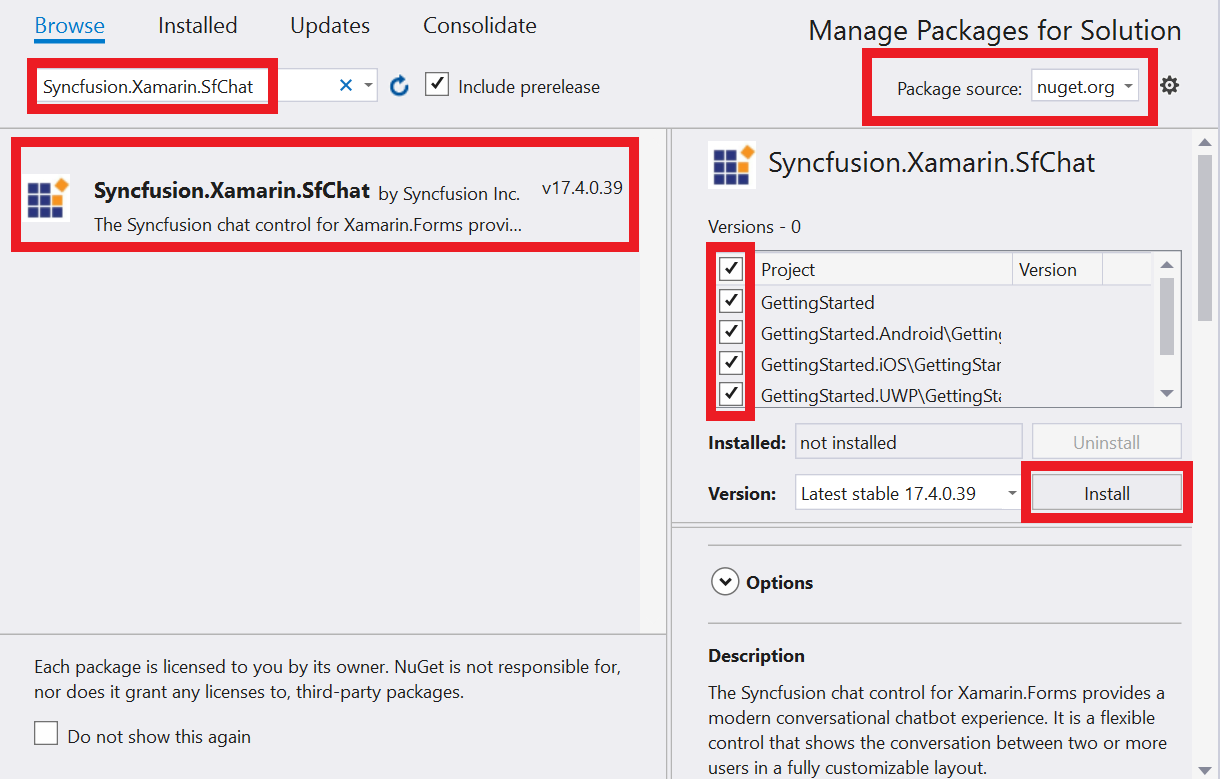
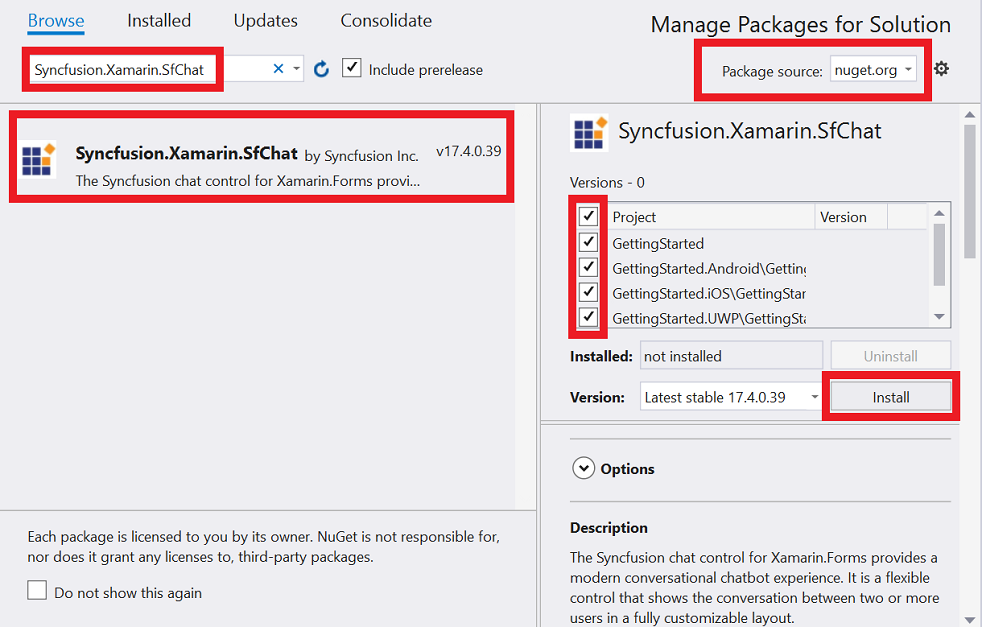
Images are replaced with images provided by UX team.

diff --git a/Xamarin/Chat/Getting-started.md b/Xamarin/Chat/Getting-started.md
@@ -336,7 +336,7 @@ public class GettingStartedViewModel : INotifyPropertyChanged
 
 ## Binding Messages to SfChat 
 
-To bind the messages to SfChat, set the [SfChat.Messages](http://help.syncfusion.com/cr/cref_files/xamarin/Syncfusion.SfChat.XForms~Syncfusion.XForms.Chat.SfChat~Messages.html) property as follows. You can bind the message collection of the SfChat either from XAML or in code. 
+To bind the messages to SfChat, set the `SfChat.Messages` property as follows. You can bind the message collection of the SfChat either from XAML or in code. 
 
 The following code example binds the collection created in previous step to `SfChat.Messages` property.
 
@@ -389,11 +389,11 @@ namespace GettingStarted
 
 Run the application to render the following output.
 
-![Xamarin Forms Chat](SfChat_images/xamarin-forms-chat-getting-started.jpg)
+![Xamarin Forms Chat](SfChat_images/xamarin-forms-chat-getting-started.png)
 
 ## Showing time break between messages
 
-Messages can be separated based on the date specified in the message and this can be achieved by setting the [SfChat.ShowTimeBreak](http://help.syncfusion.com/cr/cref_files/xamarin/Syncfusion.SfChat.XForms~Syncfusion.XForms.Chat.SfChat~ShowTimeBreak) property to true. It can be done from both XAML and code. The following code example illustrates this:
+Messages can be separated based on the date specified in the message and this can be achieved by setting the `SfChat.ShowTimeBreak` property to true. It can be done from both XAML and code. The following code example illustrates this:
 
 {% tabs %}
 {% highlight xaml %}
@@ -447,4 +447,4 @@ namespace GettingStarted
 
 Run the application to render the following output.
 
-![Xamarin Forms Chat time break mode](SfChat_images/xamarin-forms-chat-timebreak-mode.jpg)
+![Xamarin Forms Chat time break mode](SfChat_images/xamarin-forms-chat-timebreak-mode.png)

diff --git a/Xamarin/Chat/Overview.md b/Xamarin/Chat/Overview.md
@@ -19,4 +19,4 @@ The Syncfusion chat control for Xamarin.Forms provides a modern conversational c
 * Typing indicator: Indicates the users of, who are currently typing with an animation.
 * Suggestions : Add a set of suggestions to be chosen from, as a reply to a user message.
 
-![xamarin forms chat ui](SfChat_images/xamarin-forms-chat.jpg)
+![xamarin forms chat ui](SfChat_images/xamarin-forms-chat.png)
